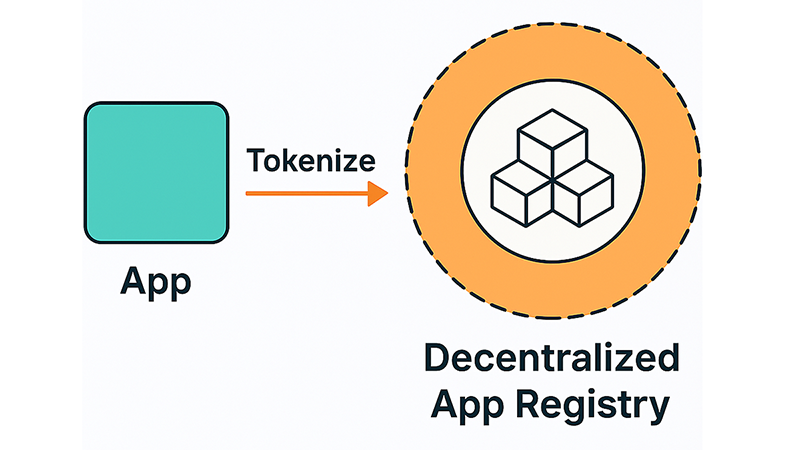
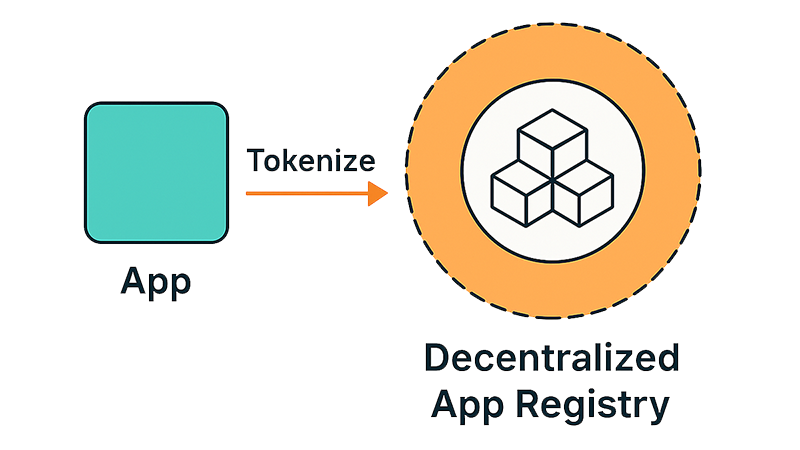
Format the diagrams.

diff --git a/docs/overview.md b/docs/overview.md
@@ -9,8 +9,12 @@ sidebar_position: 1
 
 The OMA3 Application Registry is a **blockchain-based, permissionless registry of applications** designed to replace centralized app store databases. Instead of relying on proprietary app store servers, this registry enables anyone to **mint an application token**, which can then be displayed and launched by compatible apps and websites.
 
-![OMA3 App Tokenization](/img/diagrams/oma3-app-tokenization.png)
+<div style={{textAlign: 'center'}}>
+<img src="/img/diagrams/oma3-app-tokenization.png" width="400" alt="OMA3 App Tokenization" />
+</div>
 
-These app tokens are decentralized, discoverable, and interoperable across the open metaverse. Apps, games, and services that support the **Inter-World Portaling System (IWPS)** can query these tokenized applications and present them to users through immersive storefronts, developer portals, or other interface layers.
+These app tokens are decentralized, discoverable, and interoperable across the open metaverse. Apps, games, and services that support the **Inter World Portaling System (IWPS)** can query these tokenized applications and present them to users through immersive storefronts, developer portals, or other interface layers.
 
-![OMA3 Spatial Store Architecture](/img/diagrams/oma3-spatial-store-architecture.png)
+<div style={{textAlign: 'center'}}>
+<img src="/img/diagrams/oma3-spatial-store-architecture.png" width="600" alt="OMA3 Spatial Store Architecture" />
+</div>
